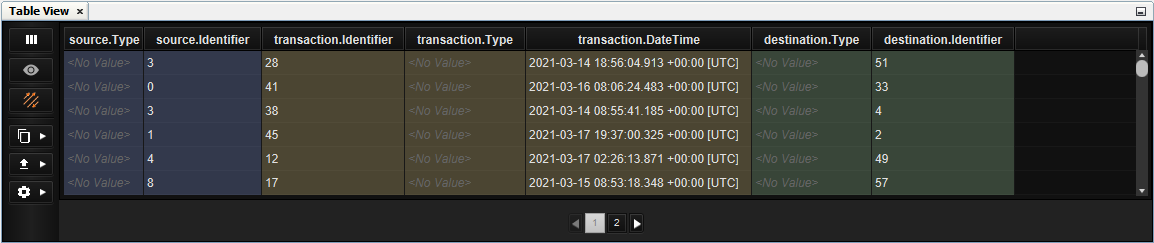
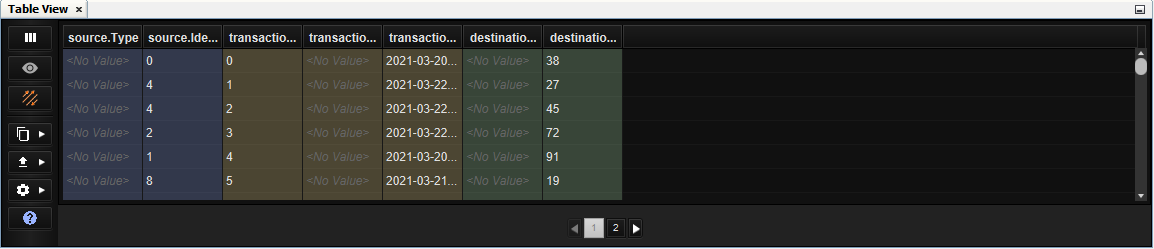
added some help buttons

diff --git a/CoreTimelineView/src/au/gov/asd/tac/constellation/views/timeline/docs/timeline-view.html b/CoreTimelineView/src/au/gov/asd/tac/constellation/views/timeline/docs/timeline-view.html
@@ -6,7 +6,7 @@
         <meta http-equiv="Content-Type" content="text/html; charset=UTF-8">
     </head>
     <body>
-        <h1>Using the Timeline</h1>
+        <h1>Timeline</h1>
         <table border="1">
             <caption>Timeline Actions</caption>
             <tr>

diff --git a/CoreTimelineView/src/au/gov/asd/tac/constellation/views/timeline/TimelinePanel.java b/CoreTimelineView/src/au/gov/asd/tac/constellation/views/timeline/TimelinePanel.java
@@ -24,6 +24,7 @@ import au.gov.asd.tac.constellation.plugins.Plugin;
 import au.gov.asd.tac.constellation.plugins.PluginExecution;
 import au.gov.asd.tac.constellation.utilities.color.ConstellationColor;
 import au.gov.asd.tac.constellation.utilities.font.FontUtilities;
+import au.gov.asd.tac.constellation.utilities.icon.UserInterfaceIconProvider;
 import au.gov.asd.tac.constellation.utilities.temporal.TimeZoneUtilities;
 import au.gov.asd.tac.constellation.views.timeline.clustering.ClusteringManager;
 import au.gov.asd.tac.constellation.views.timeline.clustering.TreeElement;
@@ -52,6 +53,8 @@ import javafx.scene.control.ListCell;
 import javafx.scene.control.ListView;
 import javafx.scene.control.ToggleButton;
 import javafx.scene.control.ToolBar;
+import javafx.scene.control.Tooltip;
+import javafx.scene.image.ImageView;
 import javafx.scene.input.ScrollEvent;
 import javafx.scene.layout.AnchorPane;
 import javafx.scene.layout.BorderPane;
@@ -61,6 +64,7 @@ import javafx.scene.layout.StackPane;
 import javafx.scene.layout.VBox;
 import javafx.scene.paint.Color;
 import javafx.util.Callback;
+import org.openide.util.HelpCtx;
 import org.openide.util.NbBundle.Messages;
 
 /**
@@ -530,11 +534,18 @@ public class TimelinePanel extends Region {
         selectedOnlyButton.selectedProperty().addListener((observable, oldValue, newValue) -> {
             coordinator.setIsShowingSelectedOnly(newValue);
         });
+        
+        final Button helpButton = new Button("", new ImageView(UserInterfaceIconProvider.HELP.buildImage(16, ConstellationColor.BLUEBERRY.getJavaColor())));
+        helpButton.setTooltip(new Tooltip("Display help for Timeline"));
+        helpButton.setOnAction(event -> {
+            new HelpCtx(TimelineTopComponent.class.getName()).display();
+        });
 
         final Label spacer1 = new Label("   ");
         final Label spacer2 = new Label("   ");
         final Label spacer3 = new Label("   ");
         final Label spacer4 = new Label("   ");
+        final Label spacer5 = new Label("   ");
 
         // Add all of the components to the menu bar:
         tb.getItems().addAll(
@@ -547,7 +558,9 @@ public class TimelinePanel extends Region {
                 spacer3,
                 btnZoomToSelection,
                 spacer4,
-                btnShowLabels, cmbAttributeNames);
+                btnShowLabels, 
+                spacer5, 
+                helpButton, cmbAttributeNames);
 
         tb.setCursor(Cursor.DEFAULT);
 

diff --git a/CoreTableView/src/au/gov/asd/tac/constellation/views/tableview2/TableViewPane.java b/CoreTableView/src/au/gov/asd/tac/constellation/views/tableview2/TableViewPane.java
@@ -93,6 +93,7 @@ import javafx.scene.layout.BorderPane;
 import javafx.scene.layout.HBox;
 import javax.swing.SwingUtilities;
 import org.controlsfx.control.table.TableFilter;
+import org.openide.util.HelpCtx;
 
 /**
  * Table View Pane.
@@ -379,9 +380,16 @@ public final class TableViewPane extends BorderPane {
             e.consume();
         }); 
         preferencesButton.getItems().addAll(setPageSize, savePrefsOption, loadPrefsOption);
+        
+        final Button helpButton = new Button("", new ImageView(UserInterfaceIconProvider.HELP.buildImage(16, ConstellationColor.BLUEBERRY.getJavaColor())));
+        helpButton.setTooltip(new Tooltip("Display help for Table View"));
+        helpButton.setMaxWidth(WIDTH);
+        helpButton.setOnAction(event -> {
+            new HelpCtx(TableViewTopComponent.class.getName()).display();
+        });
 
         final ToolBar toolbar = new ToolBar(columnVisibilityButton, selectedOnlyButton,
-                elementTypeButton, new Separator(), copyButton, exportButton, preferencesButton);
+                elementTypeButton, new Separator(), copyButton, exportButton, preferencesButton, helpButton);
         toolbar.setOrientation(Orientation.VERTICAL);
         toolbar.setPadding(new Insets(5));
 
